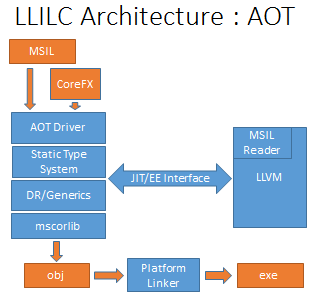
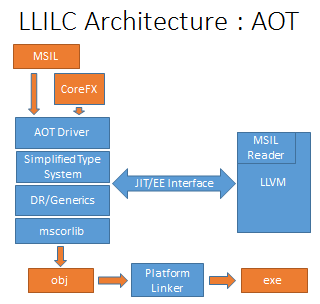
Add Roslyn AOT tie in
Updated the AOT road map bullet to explicitly reference Roslyn as a target.
Also fixed the AOT diagram to match the updated one in the LLILC repo.

Changed region(s): [[0.0282, 0.0, 0.9875, 0.99], [0.79, 0.57, 0.9028, 0.63]]

diff --git a/2015/03-llvmannounce/LLILC-announce.md b/2015/03-llvmannounce/LLILC-announce.md
@@ -1,9 +1,9 @@
 ##[LLILC](https://github.com/dotnet/llilc) : An LLVM based compiler for dotnet CoreCLR.
 
-The LLILC project (we pronouce it "lilac") is a new effort started at Microsoft to produce 
+The LLILC project (we pronounce it "lilac") is a new effort started at Microsoft to produce 
 MSIL code generators based on LLVM and targeting the open source dotnet 
 [CoreCLR](https://github.com/dotnet/coreclr).  We are envisioning using the LLVM infrastructure 
-for a number of senarious, but our first tool is a Just in Time(JIT) compiler for CoreCLR. 
+for a number of scenarios, but our first tool is a Just in Time(JIT) compiler for CoreCLR. 
 This new project is being developed on GitHub and you can check it out 
 [here](https://github.com/dotnet/llilc). The rest of this post outlines the rational and goals 
 for the project as well as our experience using LLVM.
@@ -17,7 +17,7 @@ common JIT interface as the production JIT (RyuJIT). This new JIT will allow any
 written for the .NET Core class libraries to run on any platform that CoreCLR can be ported to 
 and that LLVM will target.
 
-####There are several ongoing efforts to complie MSIL in the LLVM community, SharpLang springs to mind. Why build another one? 
+####There are several ongoing efforts to compile MSIL in the LLVM community, SharpLang springs to mind. Why build another one? 
 
 When we started thinking about the fastest way to get a LLVM based code generation working we 
 looked around at the current open source projects as well as the code we had internally. 
@@ -48,13 +48,14 @@ its components. We also hope the community will produce tools what we haven't th
 	- Install-time JIT - What .NET calls NGen. 
 	 This will be suitable for install-time JITing (LLVM is still slow in a runtime 
 	 configuration)
-- Ahead of Time compiler.  A build lab compiler that produces stand alown executables, using some 
-shared components from CoreCLR.
+- Ahead of Time compiler.  A build lab compiler that produces standalone executables, using some 
+shared components from CoreCLR.  The AOT compiler will be used to improve startup time for important 
+command line applications like the [Roslyn C# compiler](https://github.com/dotnet/roslyn).
 
 ## What's Actually Working
 
 Today on Windows we have the MSIL reader & LLVM JIT implemented well enough to 
-compile a significant number of methods in the JIT bringup tests included in 
+compile a significant number of methods in the JIT bring up tests included in 
 CoreCLR. In these tests we compile about half the methods and then fall back 
 to RyuJIT for cases we can't handle yet.  The testing experience is pretty 
 decent for developers.  The tests we run can be seen in the CoreCLR 
@@ -70,12 +71,12 @@ for roots - rather than precise mode.  We don't yet support Exception Handling.
 ##Architecture
 
 Philosophically LLILC is intended to provide a lean interface between CoreCLR and 
-LLVM.  Where posible we rely on preexisting technology.
+LLVM.  Where possible we rely on preexisting technology.
 
 ![JitArch](.\JITArch.png)
 
 For the JIT, when we are compiling on demand, we map the runtime types and MSIL into 
-LLVM BitCode.  From there compliation uses LLVM MCJIT infrastructure to produce compiled 
+LLVM BitCode.  From there compilation uses LLVM MCJIT infrastructure to produce compiled 
 code that is output to buffers provided by CoreCLR. 
 
 ![AOTArch](.\AOTArch.png)
